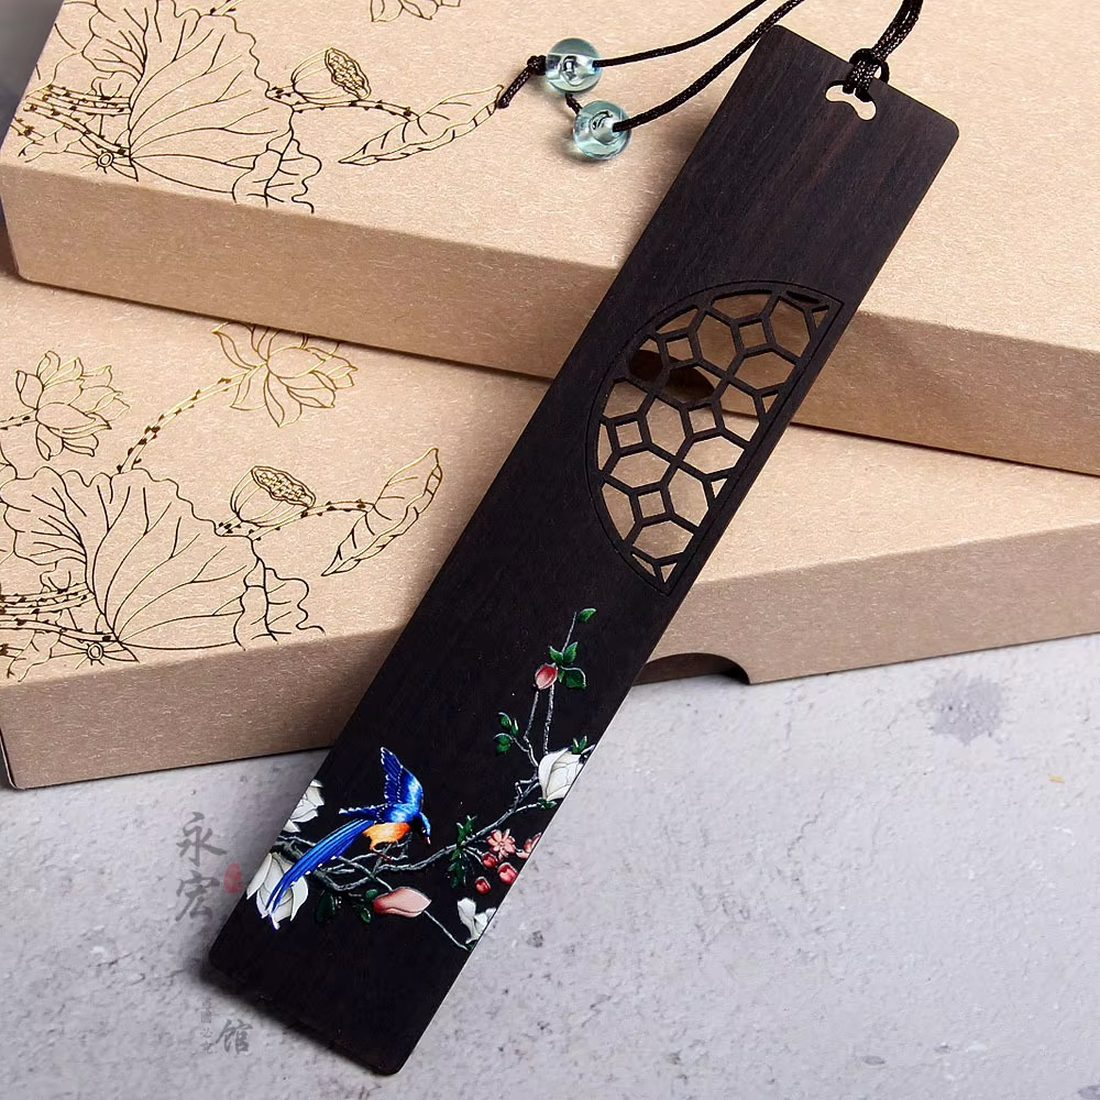
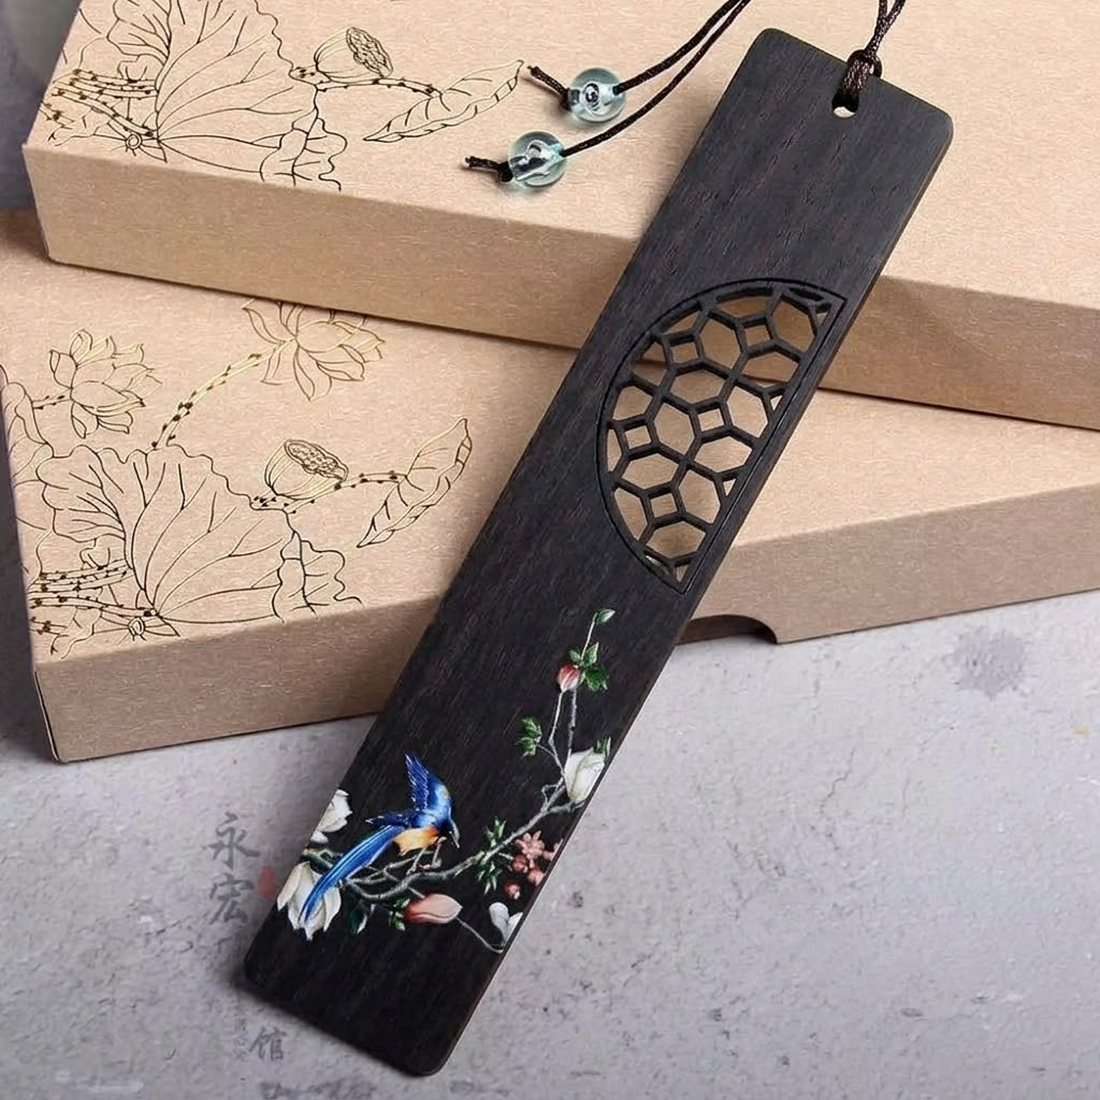
Maquette marque-pages modèle 2 : nouvelles photos Sable et Brun foncé
Claude-Session: https://claude.ai/code/session_013Nt78VnTBT8S9aqZe85f4z

diff --git a/CLAUDE.md b/CLAUDE.md
@@ -3467,3 +3467,7 @@ manquant, produit sans photo, fiche détaillée manquante, produits masqués) ·
 > boîte CARRÉE à 4 colonnes (4 fentes en haut, 4 en bas) = **4 marque-pages**. Photos : `docs/maquettes/assets/marque-pages/boite1.jpg` (1), `boite2.jpg` (2), `boite4.jpg` (4), idem
 > dans `marque-pages-fenetre/`. Les deux maquettes utilisent maintenant la bonne boîte sur chaque carte de format et dans la galerie (3 photos de boîtes, plus 2 « 8 emplacements » : supprimée).
 > Prix 4,90 / 5,90 / 7,90 € inchangés (à valider). Modèle 2 : la vraie photo de la couleur Sable (marque-page pâle, boîtes kraft à lotus) remplace le recadrage du coffret.
+
+> **12/10/2026 — photos du modèle 2 remplacées (gérant : « remplace les deux autres par cela »)** : `sable.jpg` = marque-page gris-beige sur boîtes kraft à lotus dorés
+> (remplace la photo plus jaune posée le 11/10 soir, qui ressemblait en fait au Blond clair) et `noir.jpg` = Brun foncé (nouvelle photo, même décor). Le Blond clair et le Brun roux
+> gardent leurs photos. Artifact du modèle 2 republié (même lien). La photo jaune pâle (`42190699`) n'est plus utilisée nulle part.
